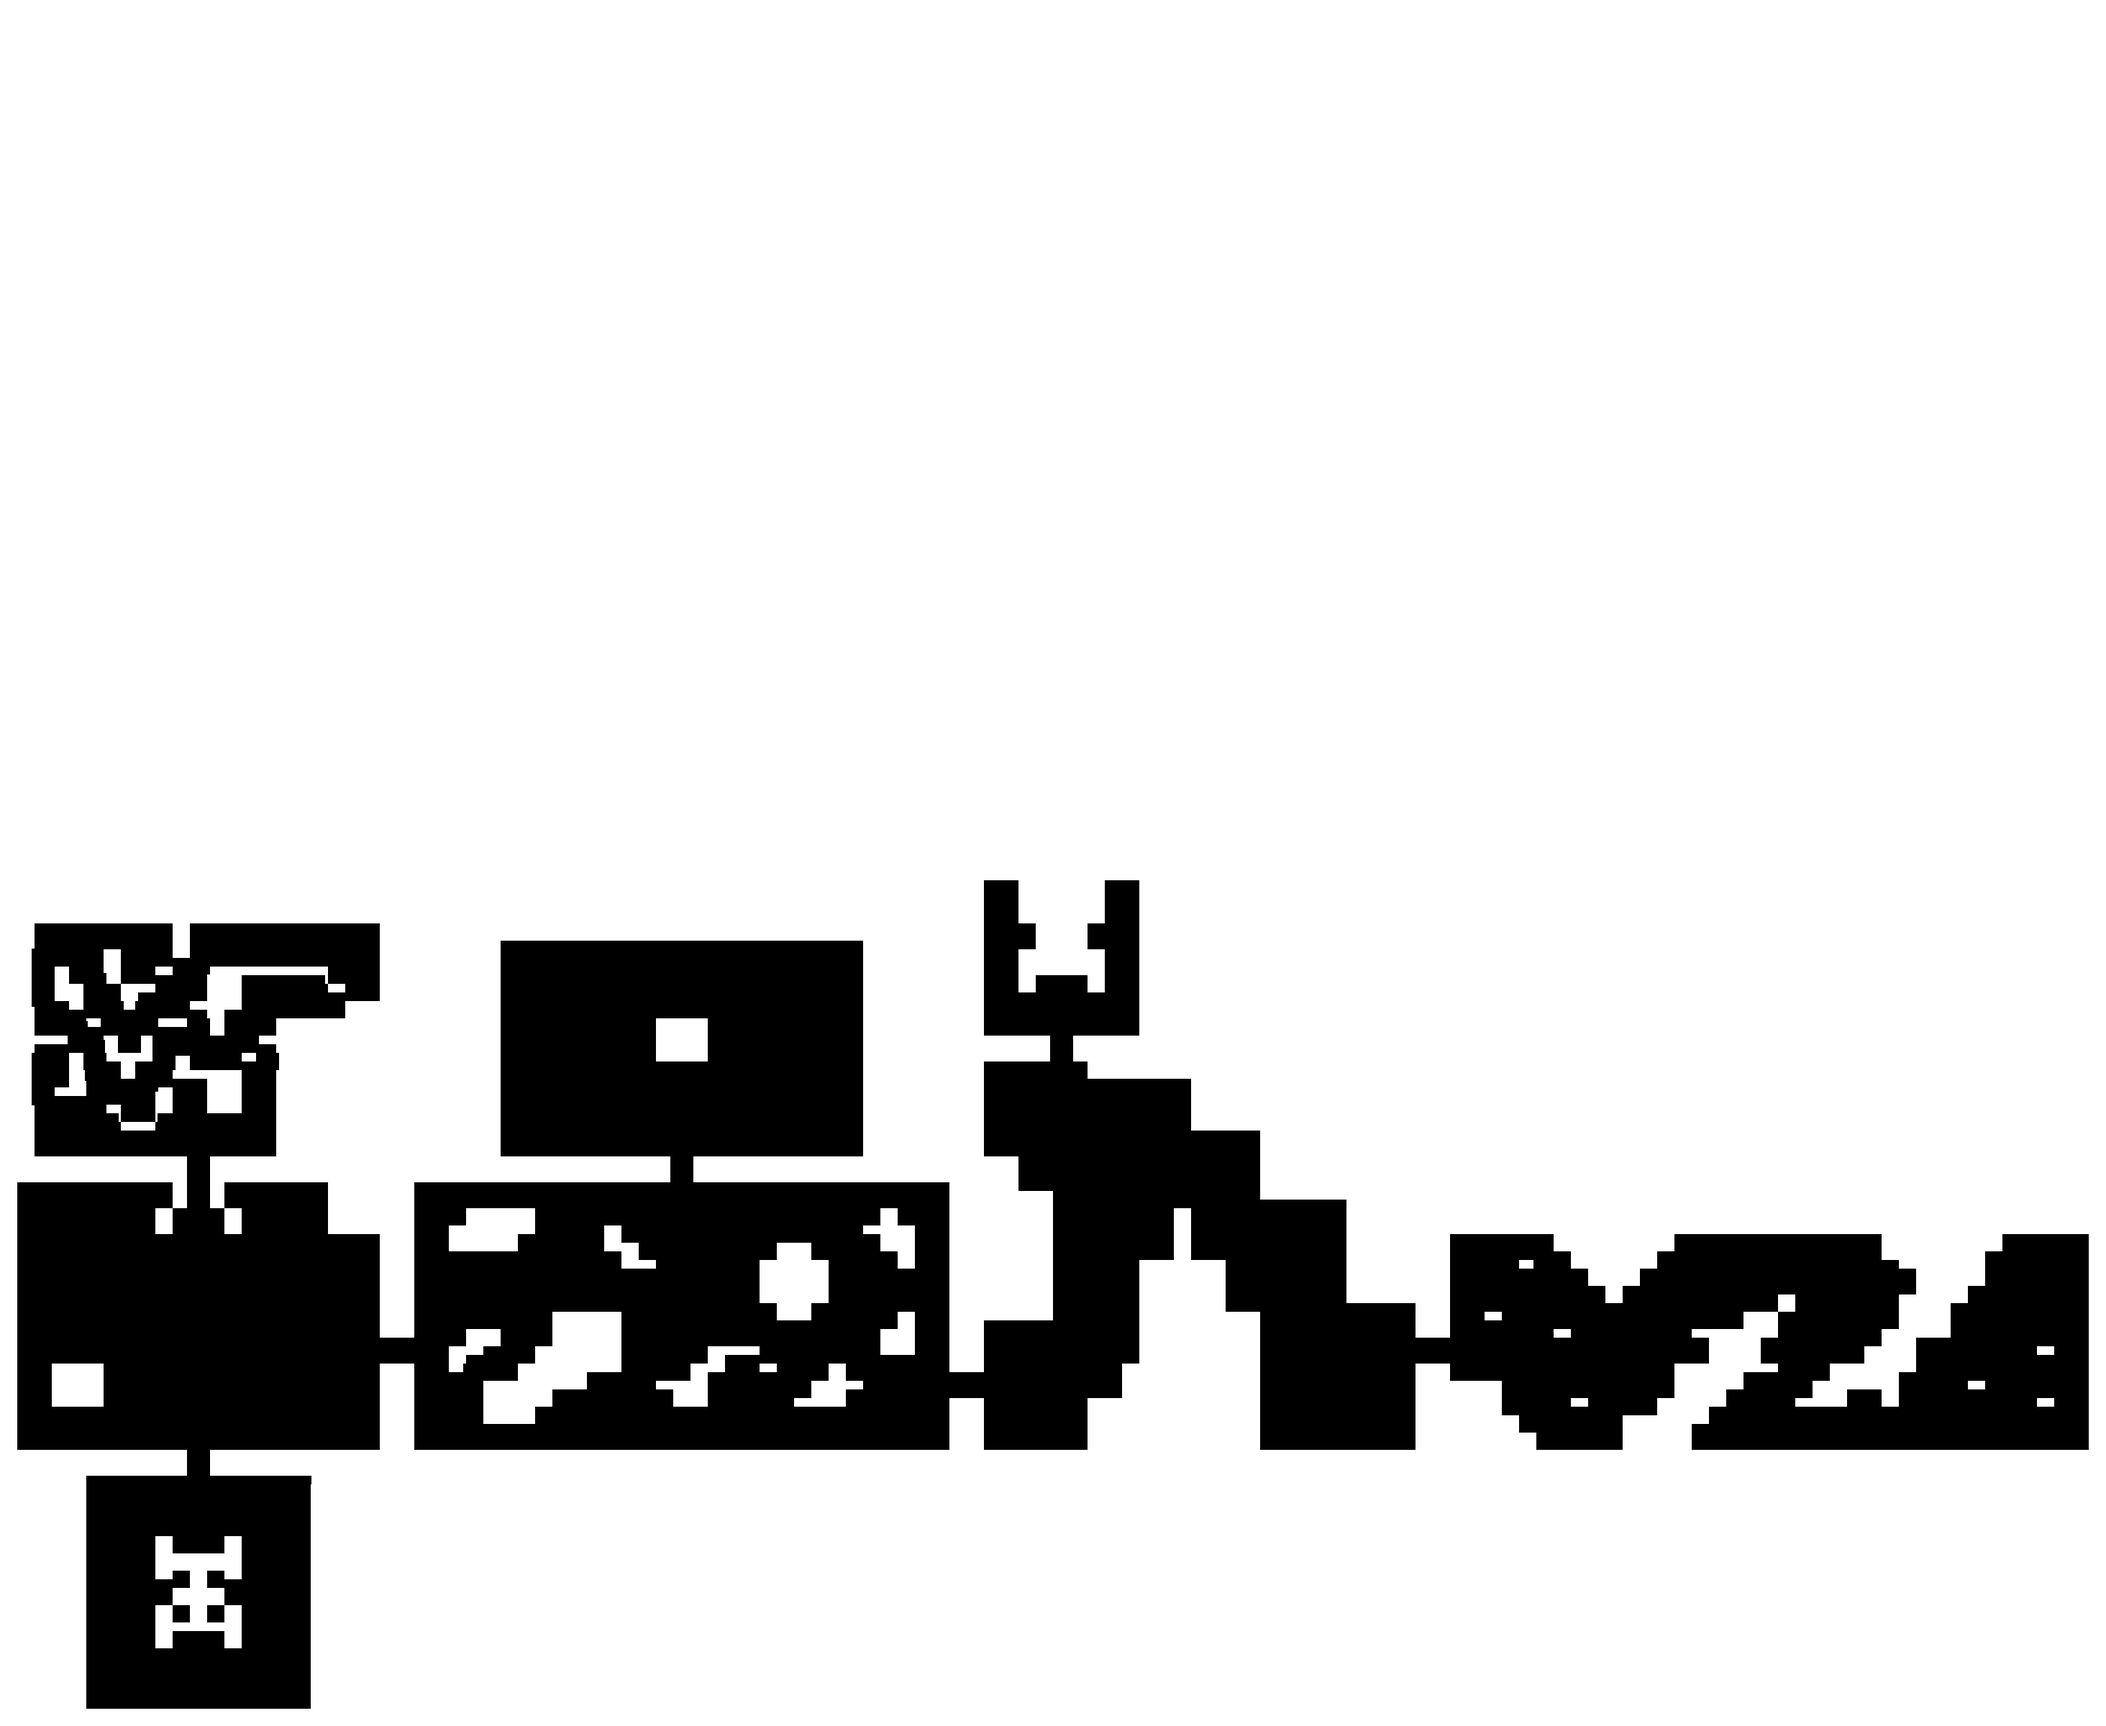
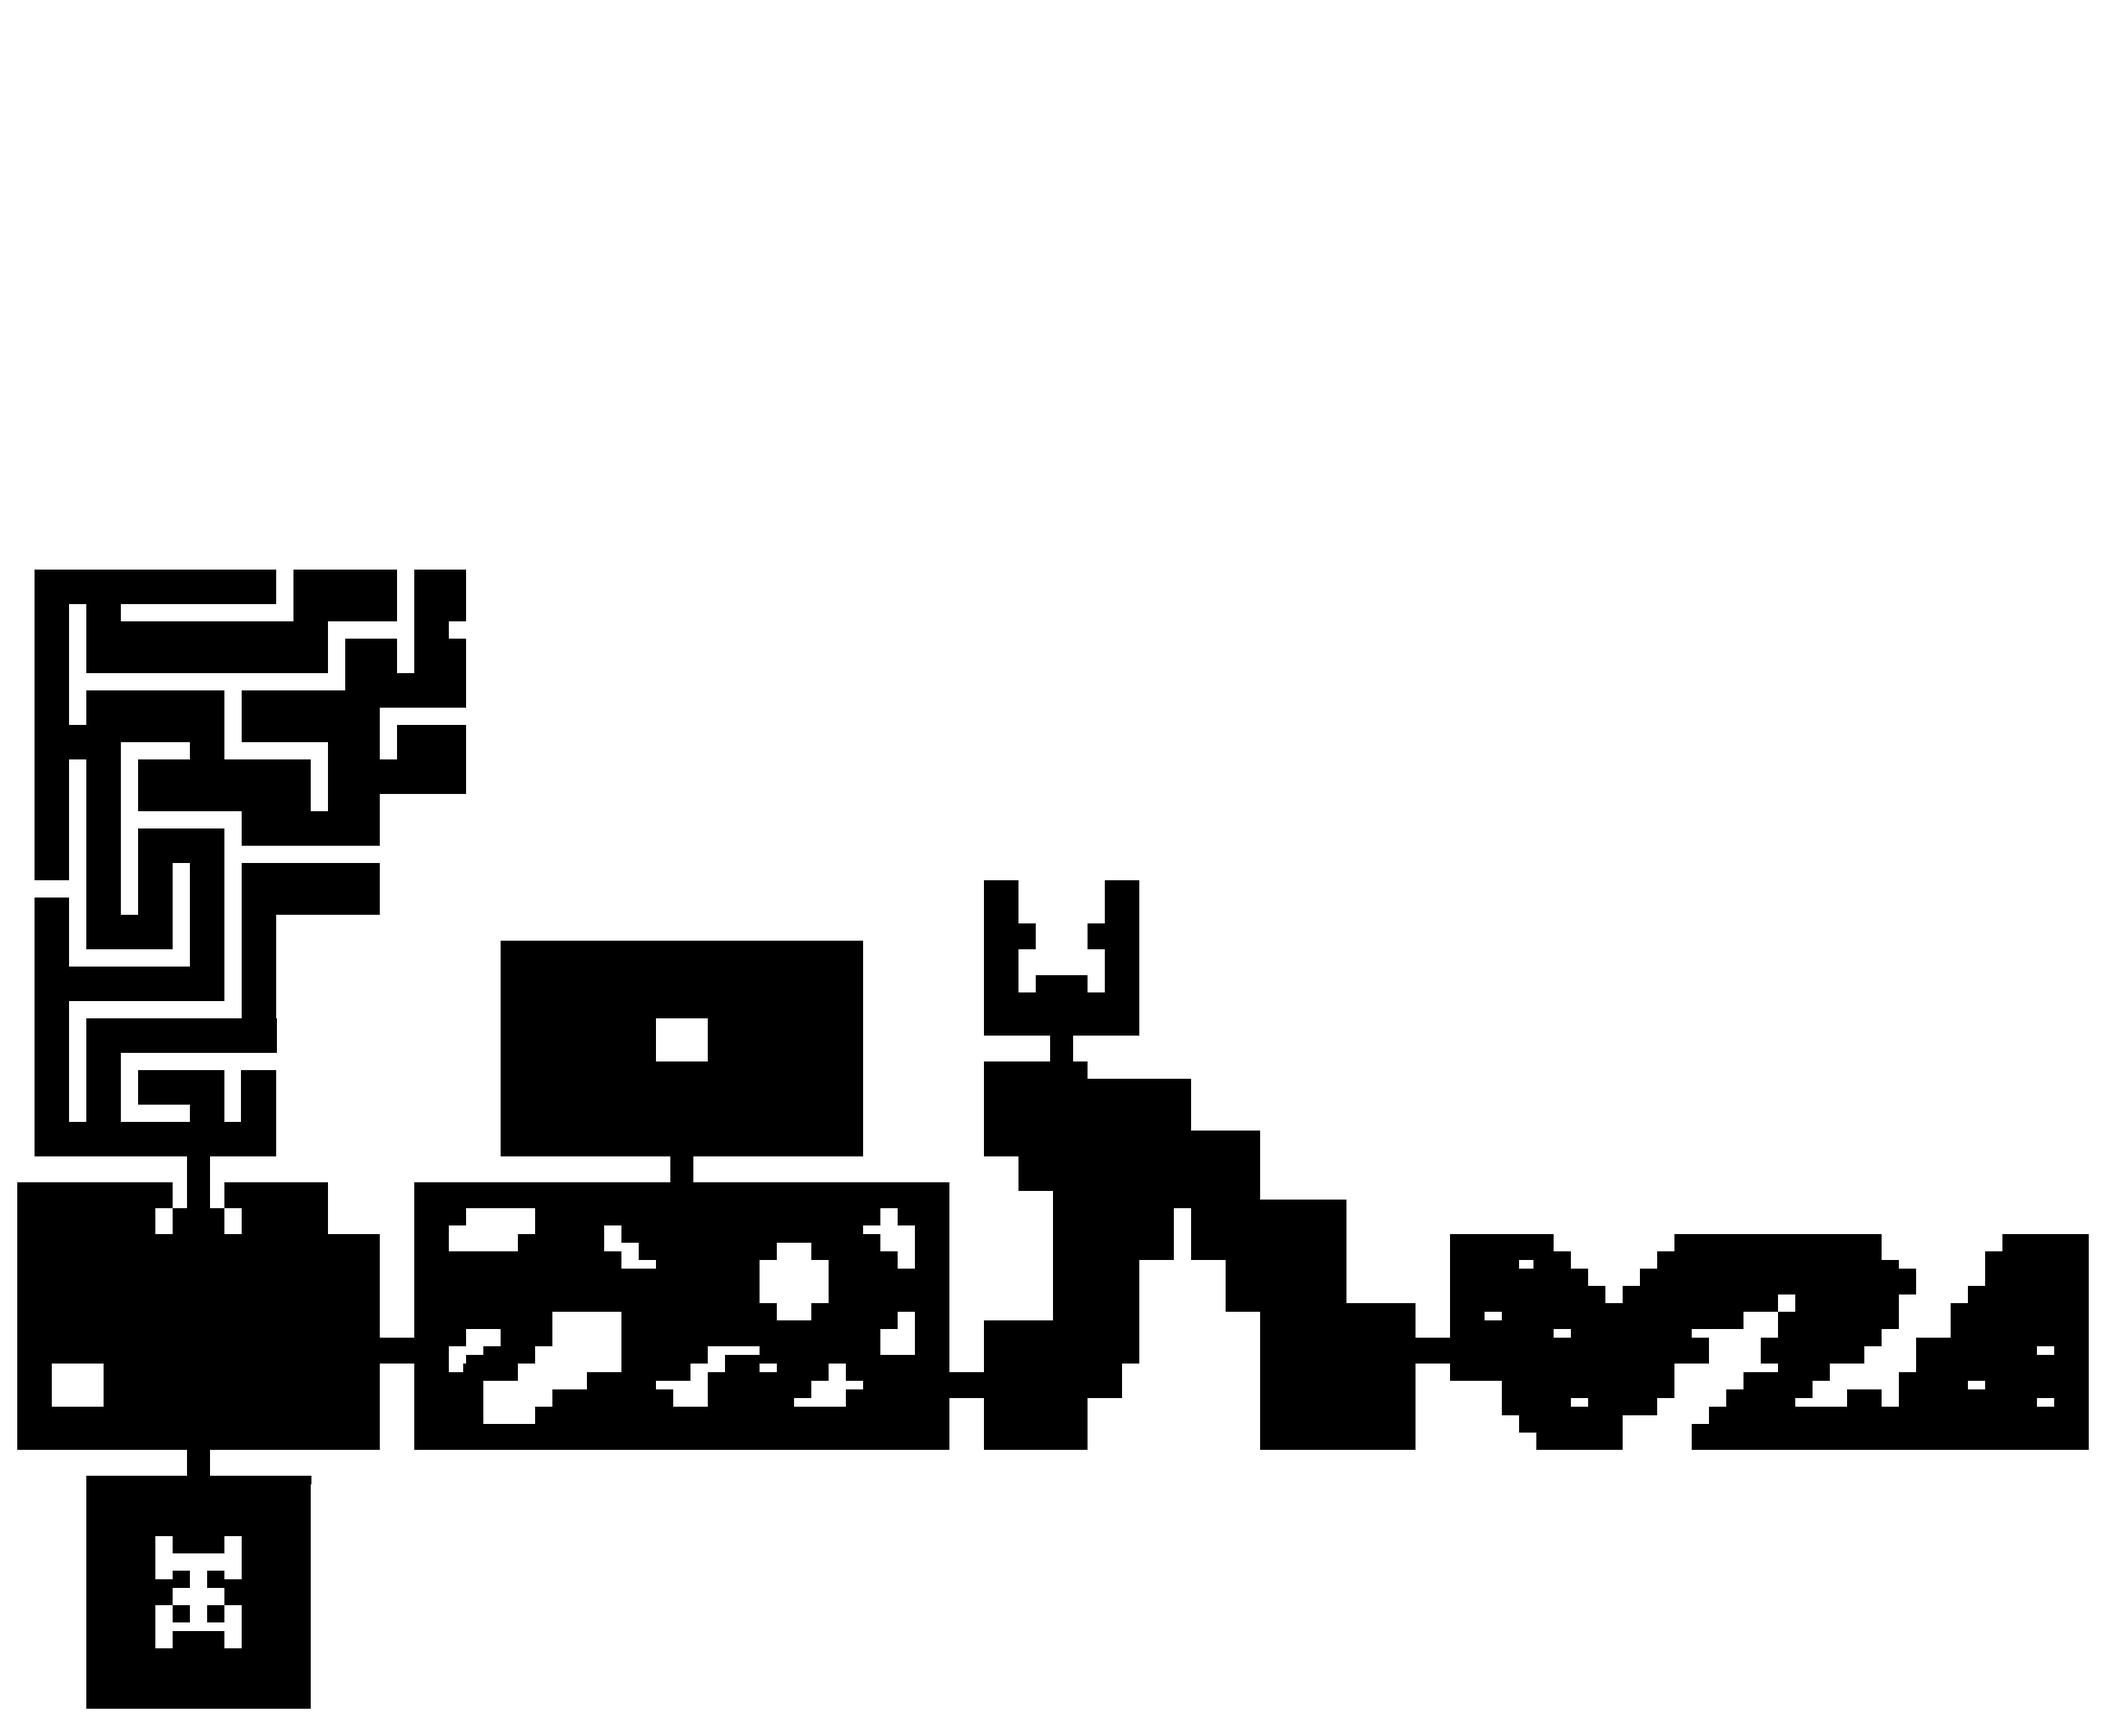
Revisada stage 1

Changed region(s): [[0.0, 0.3125, 0.2486, 0.6562]]

diff --git a/src/interface/GUIDialog.py b/src/interface/GUIDialog.py
@@ -57,11 +57,12 @@ class GUIDialog(GUIImage):
         for i in range(0, len(self.text[0])):
             self.printText.append("")
 
+        self.textSpeed = DEFAULT_TEXT_SPEED
         self.textCounter = 0
-        self.textSpeed = intervention["info"]["speed"] if ("info" in intervention) and ("speed" in intervention["info"]) else DEFAULT_TEXT_SPEED
+
+        self.background = pygame.Surface((0,0))
 
         # Retratos y nombres
-        # TODO nombres necesitan otro recuadrito de diálogo
         self.rightPortrait = pygame.Surface((0,0))
         self.rightPortraitRect = pygame.Rect((0,0), (0,0))
         self.rightName = None
@@ -109,6 +110,15 @@ class GUIDialog(GUIImage):
                 self.leftNameRect.left = self.rect.left
                 self.leftNameRect.bottom = self.rect.top
 
+            # Velocidad de texto
+            if "speed" in intervention["info"]:
+                self.textSpeed = intervention["info"]["speed"]
+
+            # Imagen de fondo
+            if "background" in intervention["info"]:
+                backgroundPath = os.path.join('interface', 'backgrounds', intervention["info"]["background"])
+                self.background = ResourceManager.load_image(backgroundPath)
+
     # Pasa al siguiente bloque de texto, reseteando contadores y variables
     def next(self):
         self.index += 1
@@ -144,7 +154,10 @@ class GUIDialog(GUIImage):
                         self.line += 1
 
     def draw(self, screen):
-        # Dibujar la imagen de fondo del diálogo (la caja)
+        # Dibujar la imagen de fondo
+        screen.blit(self.background, screen.get_rect())
+
+        # Dibujar la caja del diálogo
         screen.blit(self.image, self.rect)
         # Dibujar el texto
         for i in range(0, len(self.printText)):
